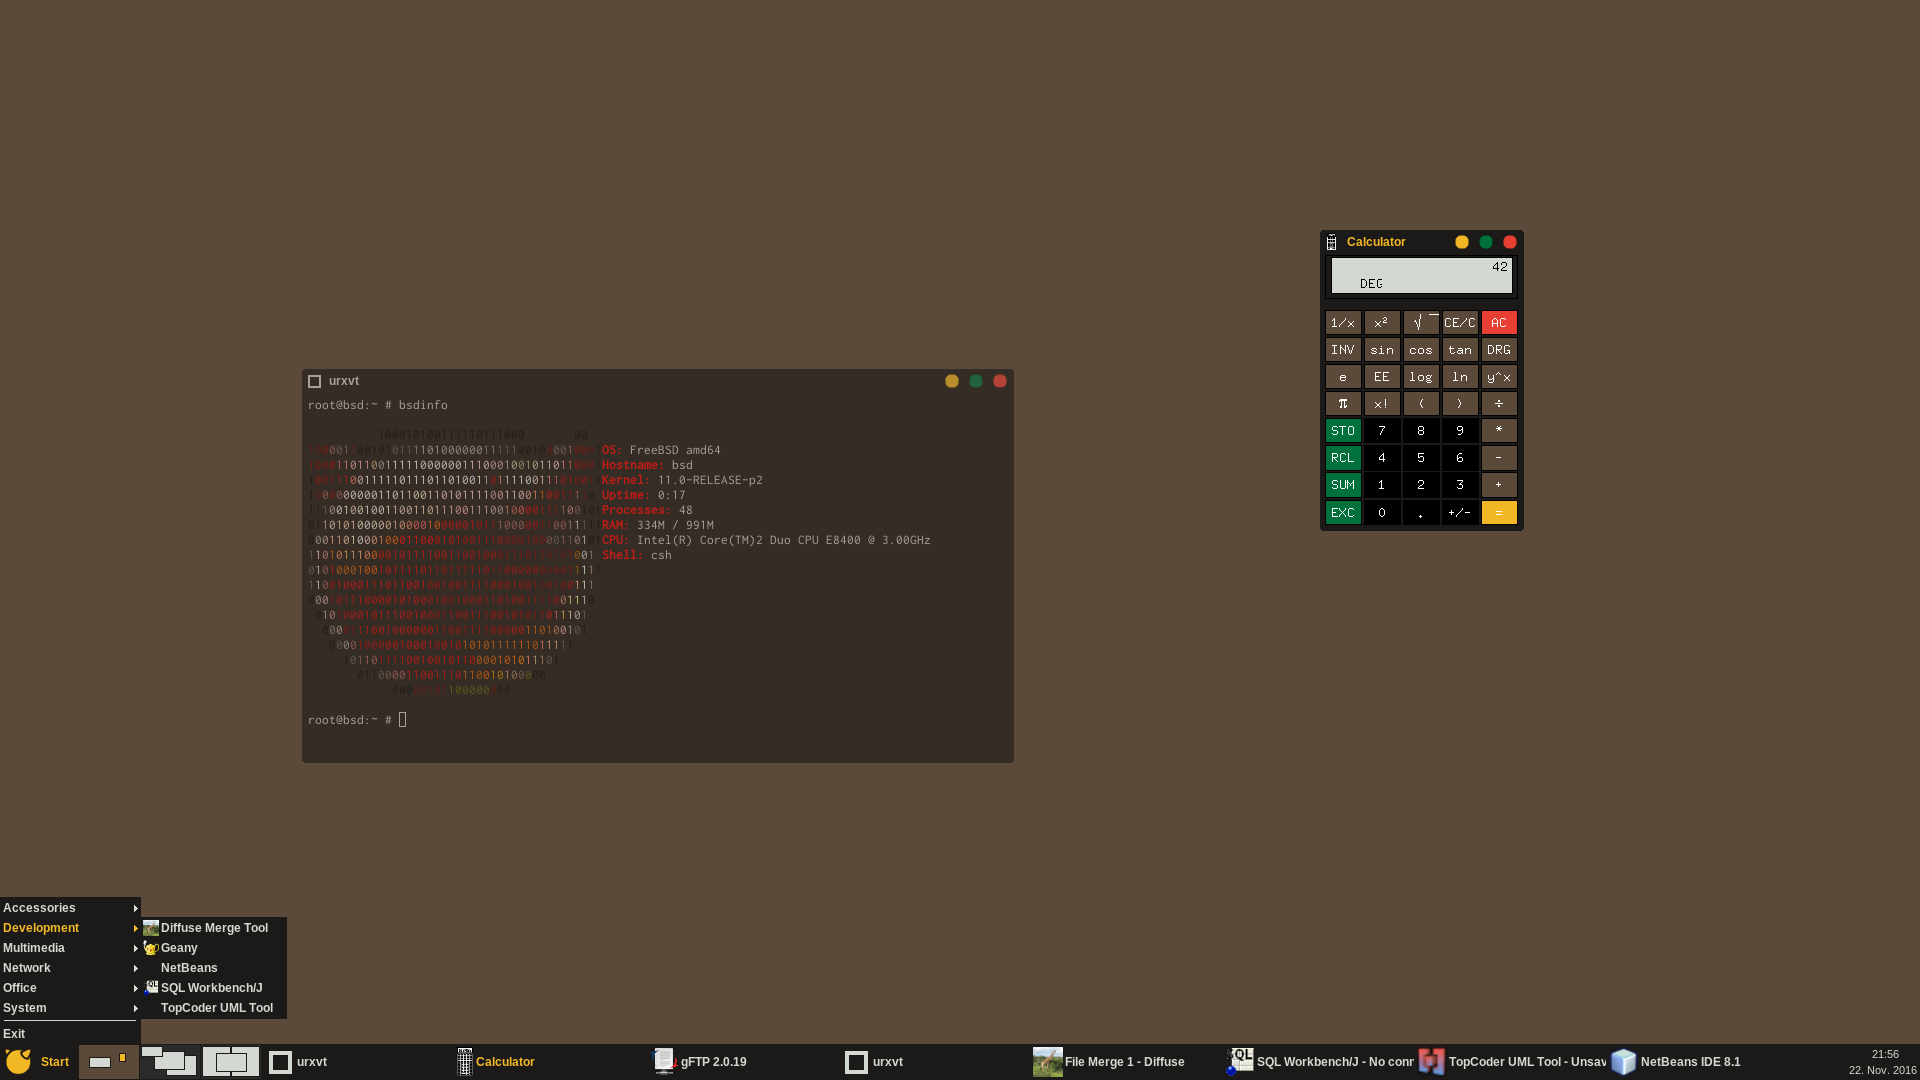
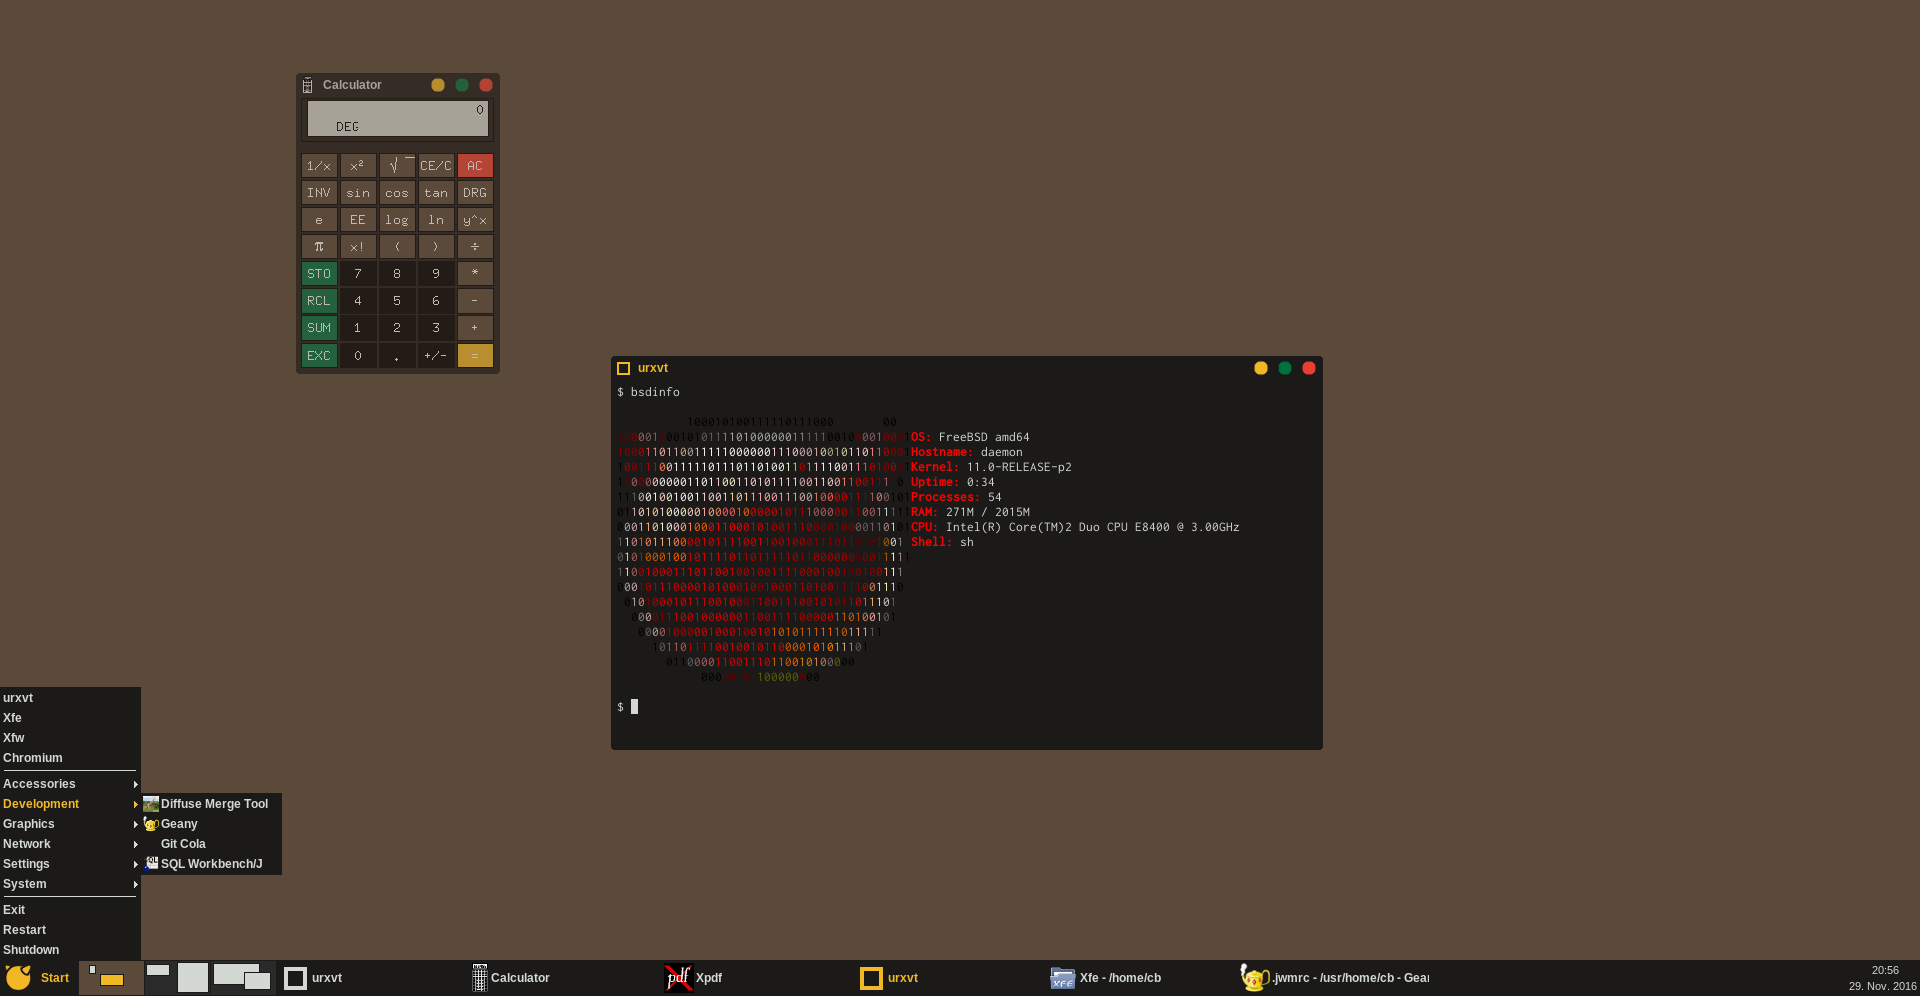
Added menu items for restarting and shutting down the machine

diff --git a/README.md b/README.md
@@ -48,6 +48,22 @@ xdgmenumaker -n -i -f jwm > ~/.jwmmenu
 exec jwm
 ```
 
+In order to allow a user to restart or shutdown the machine make sure the user is allowed to call `shutdown`. On FreeBSD you have to add the user to the group `operator`:
+
+```shell
+pw groupmod operator -m USER_NAME
+```
+
+Otherwise you can comment out the corresponding `Program` items in `.jwmrc`:
+
+```xml
+<RootMenu onroot="2">
+	...
+	<!--<Program label="Restart">shutdown -r now</Program>-->
+	<!--<Program label="Shutdown">shutdown -p now</Program>-->
+</RootMenu>
+```
+
 ## Options
 
 ### xcompmgr
